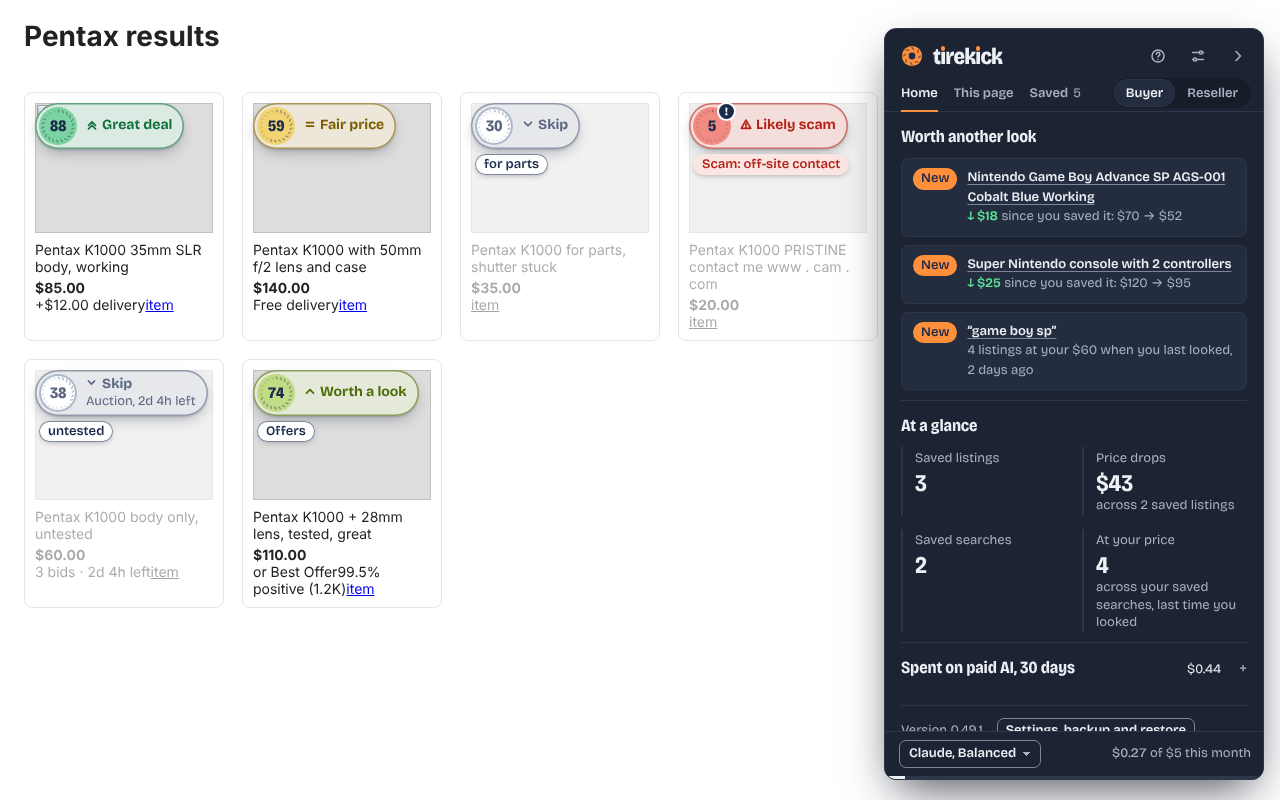
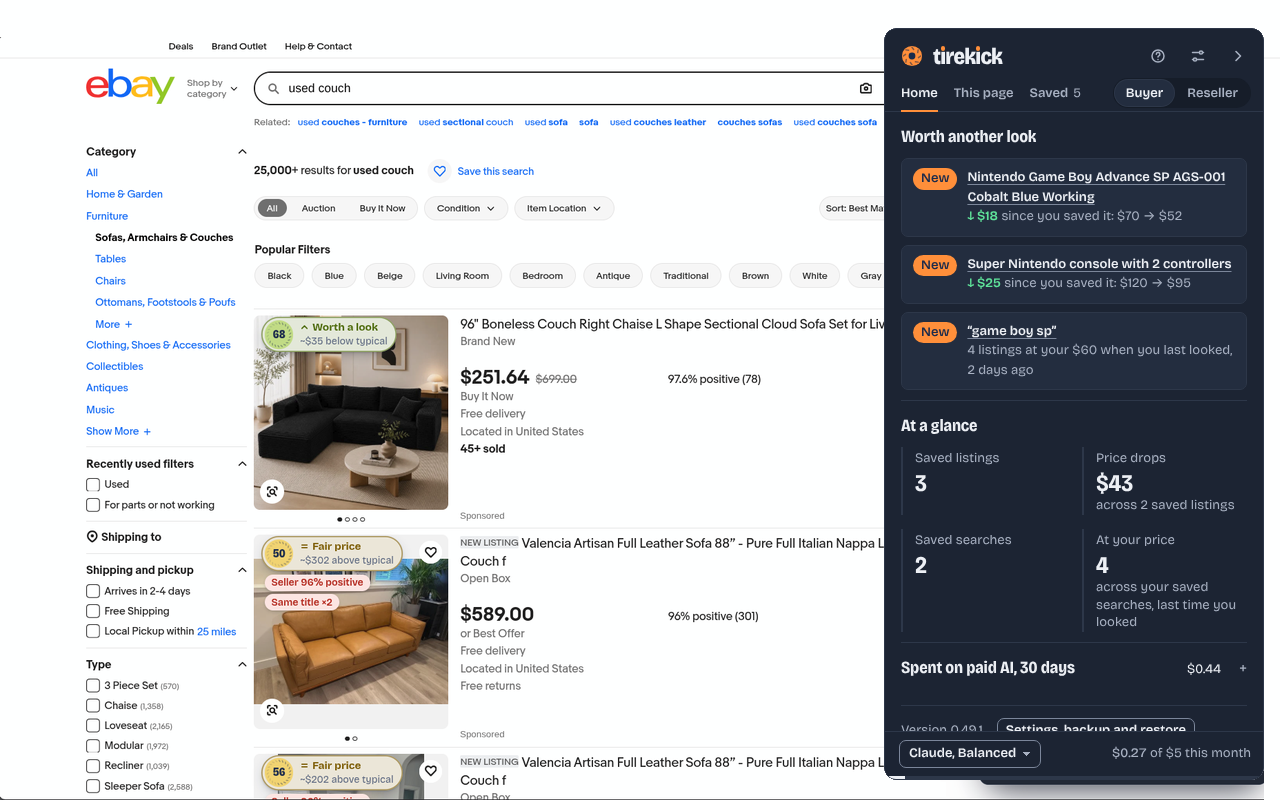
Store art: promo tiles, captioned screenshots, better listing and Home shots
- store/art.html + scripts/store-art.sh draw the 440x280 tile (now with the logo), the
  1400x560 marquee and a captioned copy of each screenshot, from the site styles and
  lib/theme.js. Replaces site/promo-tile.html.
- Screenshot 2 opens on the panel's verdict instead of mid-sentence.
- Screenshots 4 and 5 put the real panel over the real eBay page from 1, not a test page.
- A stray eBay tab beside the panel in 1 is painted out.

Claude-Session: https://claude.ai/code/session_01QDBCEB1MtRLgJjCYV9tL8f

diff --git a/store/art.html b/store/art.html
@@ -1,0 +1,86 @@
+<!doctype html>
+<html lang="en-US"><head><meta charset="utf-8"><title>Tirekick store art</title>
+<!-- The store's promo tiles and captioned screenshots, drawn from the site's styles and lib/theme.js so the logo,
+     type and colors match the extension. Not part of the package. Render one piece at a time:
+       scripts/store-art.sh
+     art = small (440 x 280), marquee (1400 x 560), or shot1 to shot5 (1280 x 800, a caption over screenshots/N-*.png).
+     tests/e2e/screenshots.ts redraws 4 and 5; 1 to 3 are real captures. -->
+<link rel="stylesheet" href="../site/style.css">
+<script src="../lib/theme.js"></script>
+<style>
+  :root { color-scheme: dark; --navy:#1A2B4C; --orange:#FF8F3A; --paper:#1C2433; --paper-2:#161D29; --ink:#EDF0F5; --muted:#A8B1C2;
+    --dot-great:#3BDB7E; --dot-good:#B6E35A; --dot-fair:#FFE04A; --dot-pass:#7D8BA6; --dot-suspicious:#FF6A5E; }
+  html, body { margin:0; background:var(--navy); overflow:hidden; }
+  .art { display:none; position:relative; overflow:hidden; background:var(--navy); color:var(--ink); }
+  .brand { display:flex; align-items:center; gap:.32em; }
+  .brand svg { width:1.12em; height:1.12em; flex:none; }
+  .wordmark { font-size:inherit; color:#fff; }
+  h1 { font:800 1em/1.06 var(--display); margin:0; letter-spacing:-.01em; }
+  h1 em, .cap em { font-style:normal; color:var(--orange); }
+  .dots { display:grid; grid-template-columns:repeat(2, var(--s)); gap:calc(var(--s) * .22); }
+  .dots .dot { width:var(--s); height:var(--s); font-size:calc(var(--s) * .34); }
+  [data-v="suspicious"] .dot::after { box-shadow:0 0 0 2px var(--navy); }
+  .beta { display:inline-block; font:700 14px/1 var(--ui); letter-spacing:.06em; text-transform:uppercase; color:var(--navy);
+    background:var(--orange); border-radius:999px; padding:6px 10px 5px; }
+
+  /* small tile, 440 x 280 */
+  #small { width:440px; height:280px; padding:32px 34px; box-sizing:border-box; }
+  #small .brand { font-size:50px; }
+  #small h1 { font-size:26px; position:absolute; left:34px; bottom:32px; }
+  #small .dots { --s:54px; position:absolute; right:30px; bottom:30px; }
+
+  /* marquee, 1400 x 560 */
+  #marquee { width:1400px; height:560px; }
+  #marquee .copy { position:absolute; left:84px; top:0; bottom:0; width:520px; display:flex; flex-direction:column; justify-content:center; gap:26px; }
+  #marquee .brand { font-size:64px; }
+  #marquee h1 { font-size:52px; }
+  #marquee p { font:500 21px/1.4 var(--ui); color:var(--muted); margin:0; max-width:24em; }
+  #marquee .shot { position:absolute; left:652px; top:64px; width:692px; border-radius:14px; box-shadow:var(--shadow); }
+
+  /* captioned screenshot, 1280 x 800 */
+  .cap-art { width:1280px; height:800px; }
+  .cap { position:absolute; left:90px; right:90px; top:0; height:112px; display:flex; align-items:center; justify-content:space-between; gap:24px; }
+  .cap h1 { font-size:40px; }
+  .cap .brand { font-size:30px; }
+  .cap-art img { position:absolute; left:90px; top:112px; width:1100px; border-radius:12px 12px 0 0; }
+</style></head>
+<body>
+<div class="art" id="small">
+  <div class="brand"><svg class="mark"></svg><span class="wm"></span></div>
+  <h1>Kick the tires<br><em>before you buy.</em></h1>
+  <div class="dots">
+    <div data-v="great"><div class="dot" style="--lit:20"><span>91</span></div></div>
+    <div data-v="good"><div class="dot" style="--lit:16"><span>74</span></div></div>
+    <div data-v="fair"><div class="dot" style="--lit:12"><span>55</span></div></div>
+    <div data-v="suspicious"><div class="dot" style="--lit:2"><span>8</span></div></div>
+  </div>
+</div>
+
+<div class="art" id="marquee">
+  <div class="copy">
+    <div class="brand"><svg class="mark"></svg><span class="wm"></span></div>
+    <h1>Good price or scam?<br><em>Know before you buy.</em></h1>
+    <p>Every listing on eBay and Facebook Marketplace gets a fair-price tag and a scam check as you browse. Add your own AI if you want a closer read.</p>
+    <div><span class="beta">Beta</span></div>
+  </div>
+  <img class="shot" src="screenshots/3-marketplace.png" alt="">
+</div>
+
+<div class="art cap-art" id="shot1"><div class="cap"><h1>Good price or scam? <em>See it on every listing.</em></h1><div class="brand"><svg class="mark"></svg></div></div><img src="screenshots/1-ebay-search.png" alt=""></div>
+<div class="art cap-art" id="shot2"><div class="cap"><h1>A closer read, and <em>an offer to send.</em></h1><div class="brand"><svg class="mark"></svg></div></div><img src="screenshots/2-ebay-listing.png" alt=""></div>
+<div class="art cap-art" id="shot3"><div class="cap"><h1>Works on <em>Facebook Marketplace</em> too.</h1><div class="brand"><svg class="mark"></svg></div></div><img src="screenshots/3-marketplace.png" alt=""></div>
+<div class="art cap-art" id="shot4"><div class="cap"><h1>Price drops on what you saved, <em>at a glance.</em></h1><div class="brand"><svg class="mark"></svg></div></div><img src="screenshots/4-home.png" alt=""></div>
+<div class="art cap-art" id="shot5"><div class="cap"><h1>Saved listings and searches, <em>in one place.</em></h1><div class="brand"><svg class="mark"></svg></div></div><img src="screenshots/5-saved.png" alt=""></div>
+
+<script>
+  const T = self.TKTheme;
+  // The logo: the orange tire with its tread and navy hub, as on the toolbar icon (no tile: the art is the tile).
+  const MARK = `<circle cx="64" cy="64" r="60" fill="${T.ORANGE}"/>${T.logoTread(64, 60, 128)}<circle cx="64" cy="64" r="20.4" fill="${T.NAVY}"/>`;
+  for (const s of document.querySelectorAll("svg.mark")) { s.setAttribute("viewBox", "0 0 128 128"); s.innerHTML = MARK; }
+  for (const w of document.querySelectorAll(".wm")) w.replaceWith(T.wordmark((tag, attrs, ...kids) => {
+    const el = document.createElement(tag); for (const [k, v] of Object.entries(attrs)) el.setAttribute(k, v); el.append(...kids); return el;
+  }));
+  const st = document.createElement("style"); st.textContent = T.wordmarkCss(""); document.head.append(st);
+  document.getElementById(new URLSearchParams(location.search).get("art") || "small").style.display = "block";
+</script>
+</body></html>

diff --git a/store/LISTING.md b/store/LISTING.md
@@ -73,7 +73,11 @@ Help people buying secondhand online judge the listings they are viewing on supp
 ## Screenshots (1280 × 800, in `store/screenshots/`)
 
 1 to 3 are real captures in Vivaldi (cropped, with the account name, profile picture, ZIP code, town and seller
-names removed). 4 and 5 are drawn with `tests/e2e/run.sh screenshots.ts` (the real extension on a test page, dark theme).
+names removed; in 2 the panel's verdict header comes from a capture a moment earlier of the same analysis, so it
+reads from the top). 4 and 5 are the real extension's panel, drawn by `tests/e2e/run.sh screenshots.ts` and placed
+over the eBay page from 1. `store/screenshots/captioned/` has the same five under a one-line caption, and
+`store/promo-small.png` (440 × 280) and `store/promo-marquee.png` (1400 × 560) are the promo tiles: all drawn from
+`store/art.html` by `scripts/store-art.sh`. Upload either set of five.
 
 1. `1-ebay-search.png`: an eBay search after a scan, with tags on the cards and the panel's best picks.
 2. `2-ebay-listing.png`: one eBay listing analyzed: the AI's read, its notes and a suggested offer.

diff --git a/docs/ROADMAP.md b/docs/ROADMAP.md
@@ -361,8 +361,8 @@ submitted or published.* Store form answers are in `store/LISTING.md`; the secur
 |---|---|---|
 | Store icon | 128 × 128 | ✅ `icons/icon128.png` |
 | Screenshots (1 to 5) | 1280 × 800 | ✅ 1 to 3 are dabloonery's real captures (eBay search, eBay listing, Marketplace), 4 and 5 are drawn by `screenshots.ts` |
-| Small promo tile | 440 × 280 | ✅ `store/promo-small.png` (draft) |
-| Marquee promo tile | 1400 × 560 | Optional; only used if the store features the extension. Skip for now |
+| Small promo tile | 440 × 280 | ✅ `store/promo-small.png` (with the logo, `scripts/store-art.sh`) |
+| Marquee promo tile | 1400 × 560 | ✅ `store/promo-marquee.png` (optional; used if the store features the extension) |
 
 Retaking screenshots 1 to 3 (**dabloonery**, since it needs your eBay session and API key):
 

diff --git a/store/SUBMISSION-CHECKLIST.md b/store/SUBMISSION-CHECKLIST.md
@@ -56,8 +56,8 @@ work (PRs #14 to #21). Nothing below is done yet.*
 |---|---|---|
 | Store icon | 128 × 128 | ✅ `icons/icon128.png` |
 | Screenshots (1 to 5) | 1280 × 800 | ✅ 1 to 3 are dabloonery's real captures (eBay search, eBay listing, Marketplace), 4 and 5 are drawn by `screenshots.ts` |
-| Small promo tile | 440 × 280 | ✅ `store/promo-small.png` (draft) |
-| Marquee promo tile | 1400 × 560 | Optional; only used if the store features the extension. Skip for now |
+| Small promo tile | 440 × 280 | ✅ `store/promo-small.png` (with the logo, `scripts/store-art.sh`) |
+| Marquee promo tile | 1400 × 560 | ✅ `store/promo-marquee.png` (optional; used if the store features the extension) |
 
 Retaking screenshots 1 to 3 (**dabloonery**, since it needs your eBay session and API key):
 

diff --git a/site/README.md b/site/README.md
@@ -10,7 +10,7 @@ served from here. Every link is relative. It lives at https://tirekick.app and g
 - `support.html`: getting started, what to send when something breaks, common questions and the contact
   address. The store's **support URL** is this page.
 - `style.css`: colors, type, the tread and the verdict glyphs copied from `lib/theme.js`.
-- `promo-tile.html`: source for the store's small promo tile, not linked from the site.
+- The store's promo tiles are drawn from `store/art.html` (which uses this folder's `style.css`) by `scripts/store-art.sh`.
 - `CNAME`: the custom domain, tirekick.app.
 - The contact address is support@tirekick.app. It works once the mailbox is set up.
 
